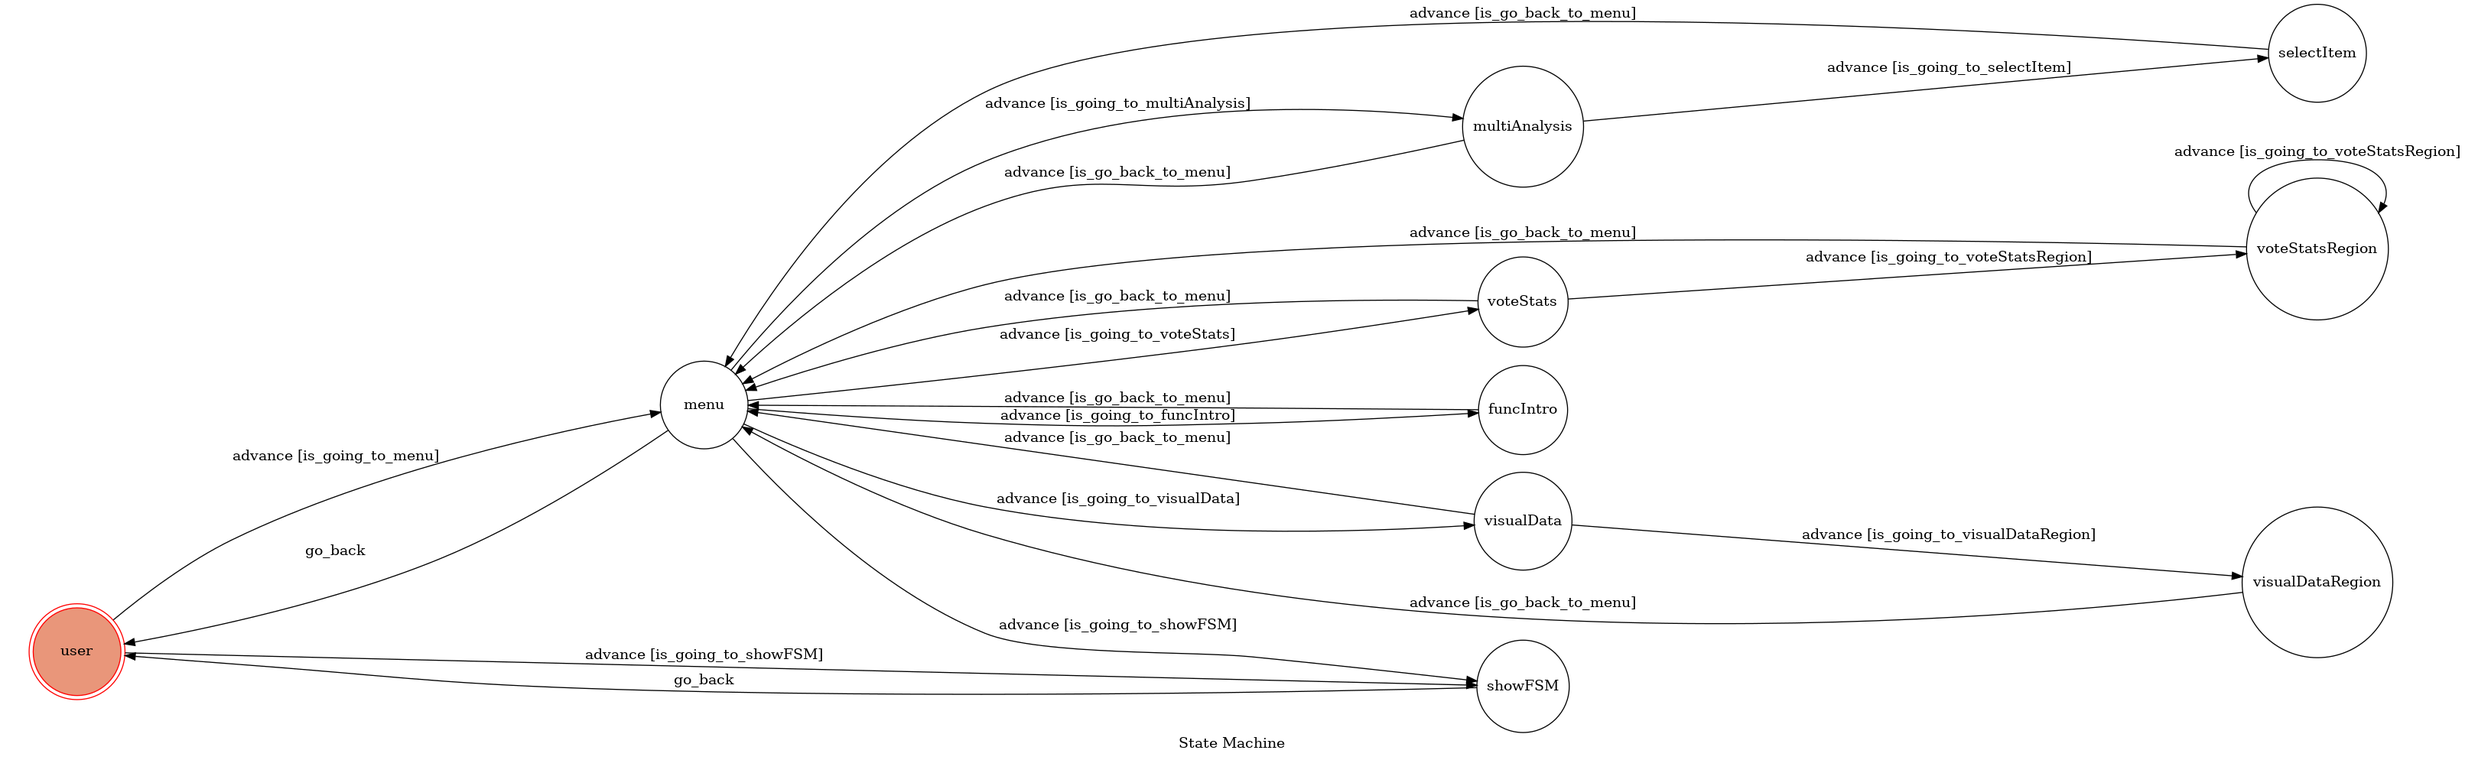
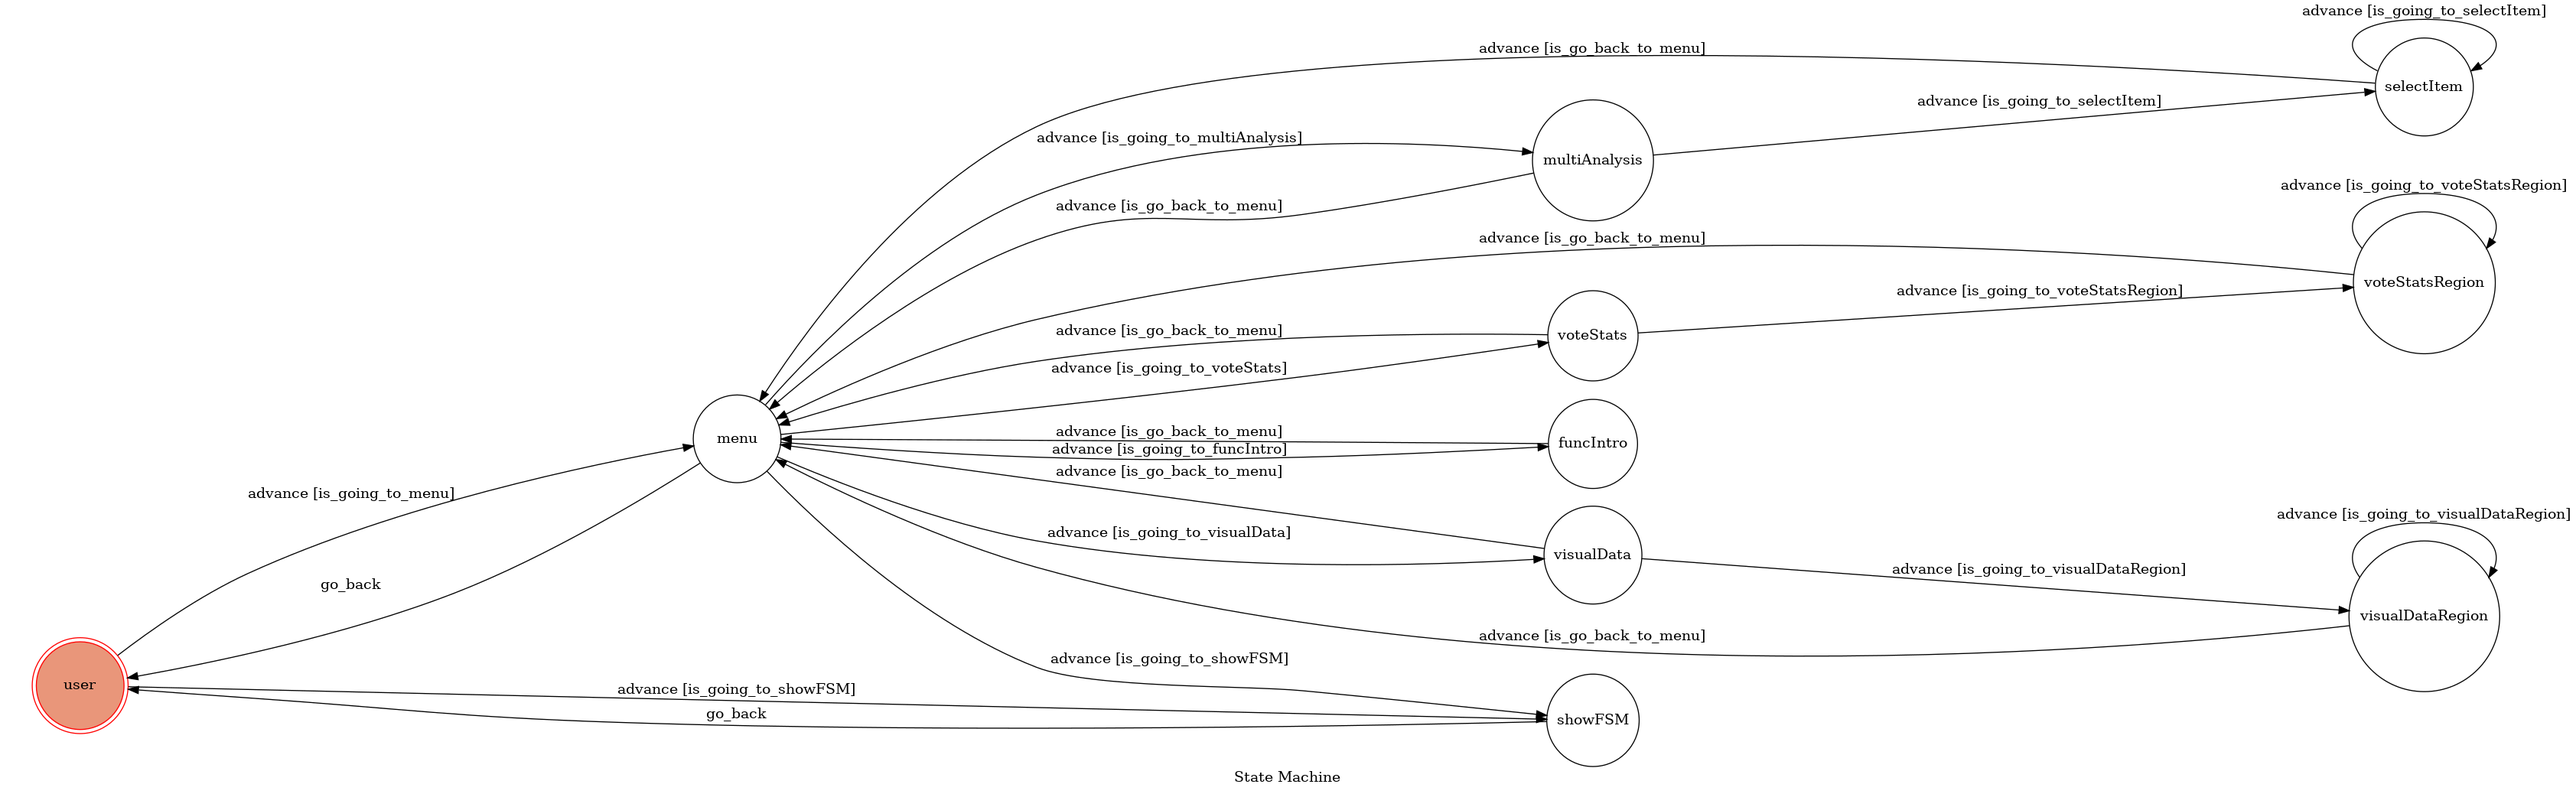
Repeatable in Select Data state

diff --git a/machine.py b/machine.py
@@ -72,6 +72,12 @@ def create_machine():
             },
             {
                 "trigger": "advance",
+                "source": "selectItem",
+                "dest": "selectItem",
+                "conditions": "is_going_to_selectItem",
+            },
+            {
+                "trigger": "advance",
                 "source": "menu",
                 "dest": "funcIntro",
                 "conditions": "is_going_to_funcIntro",
